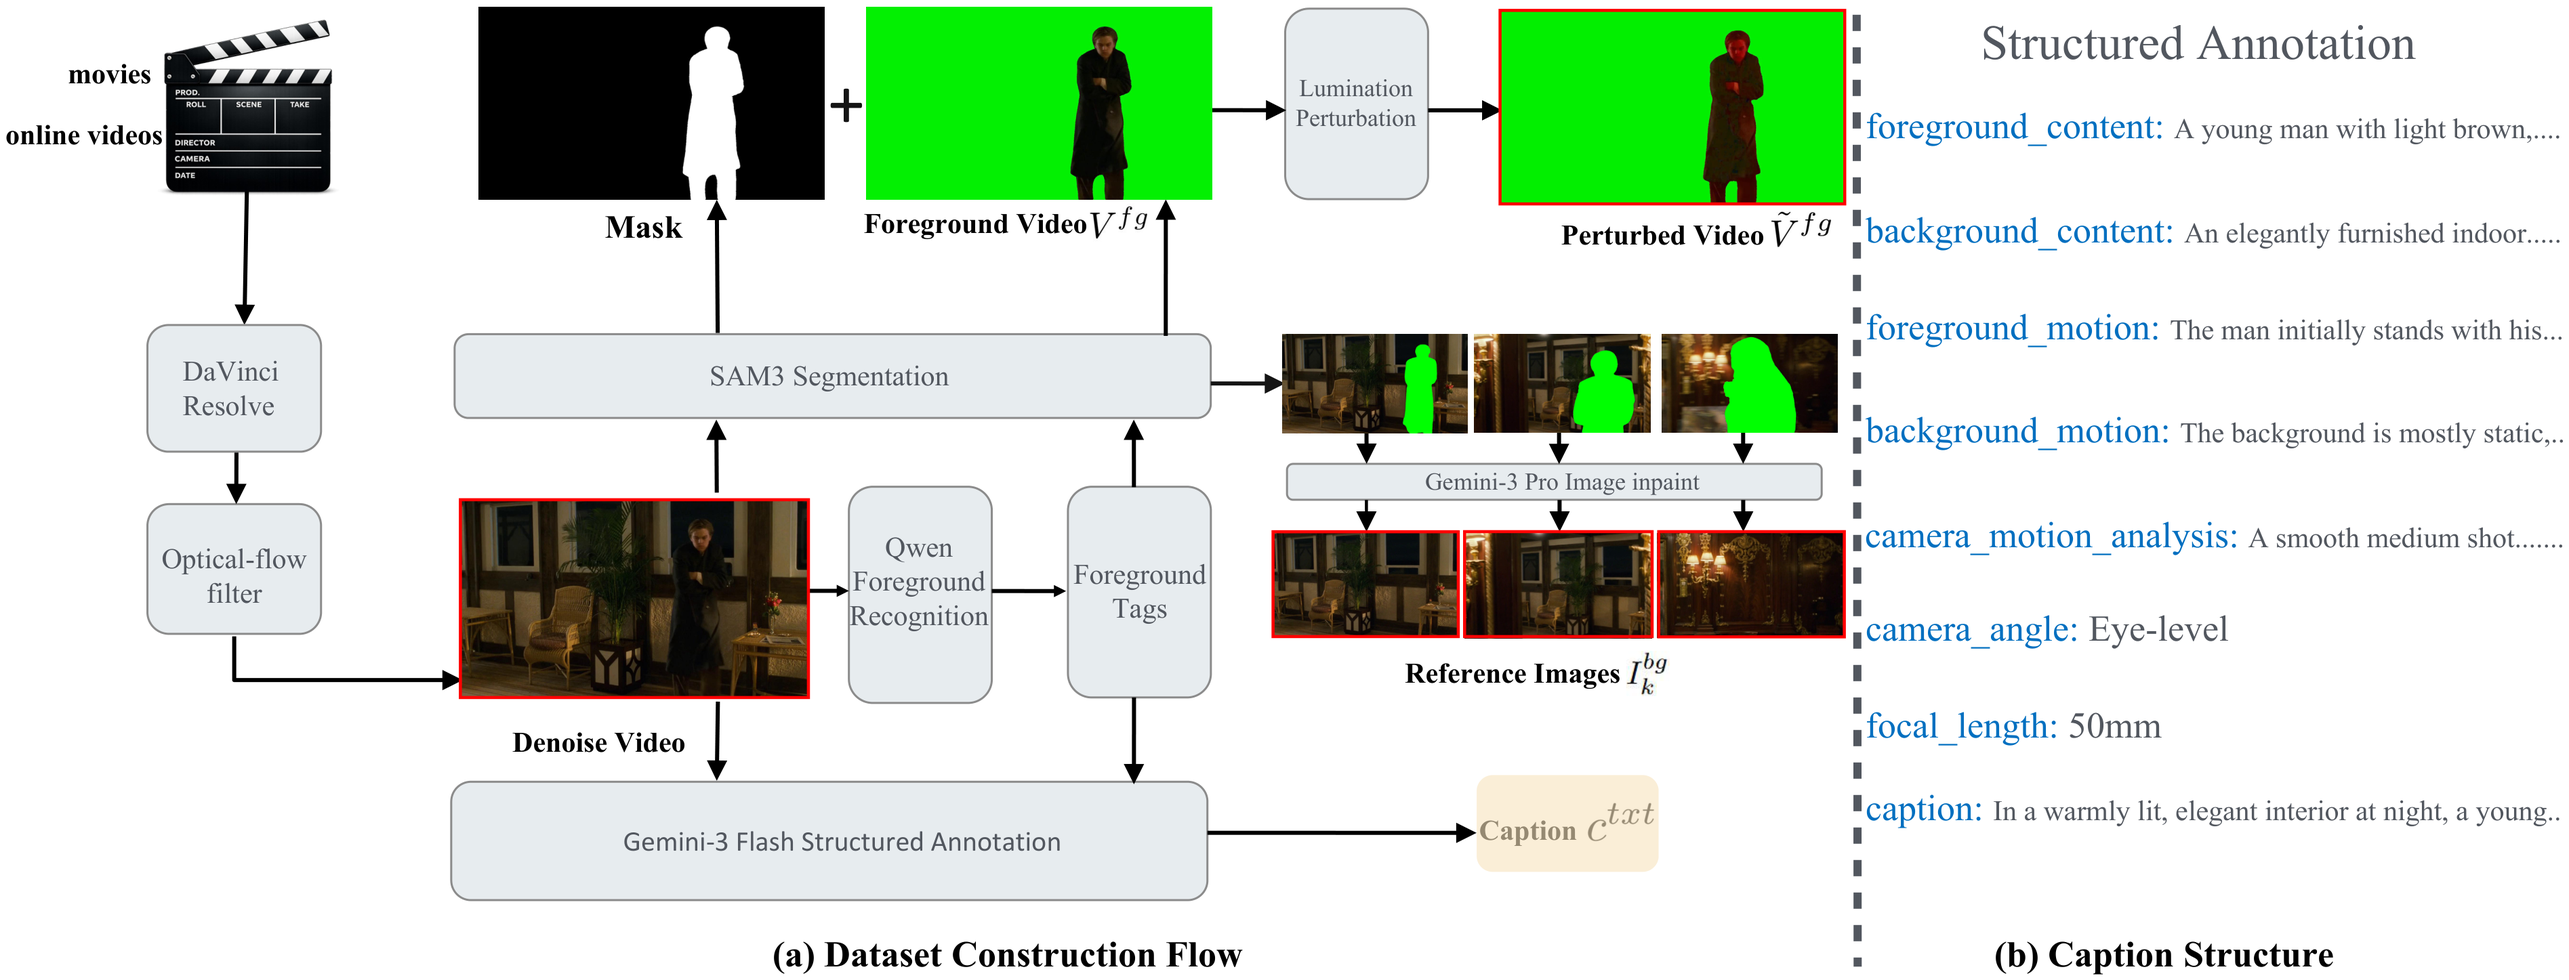
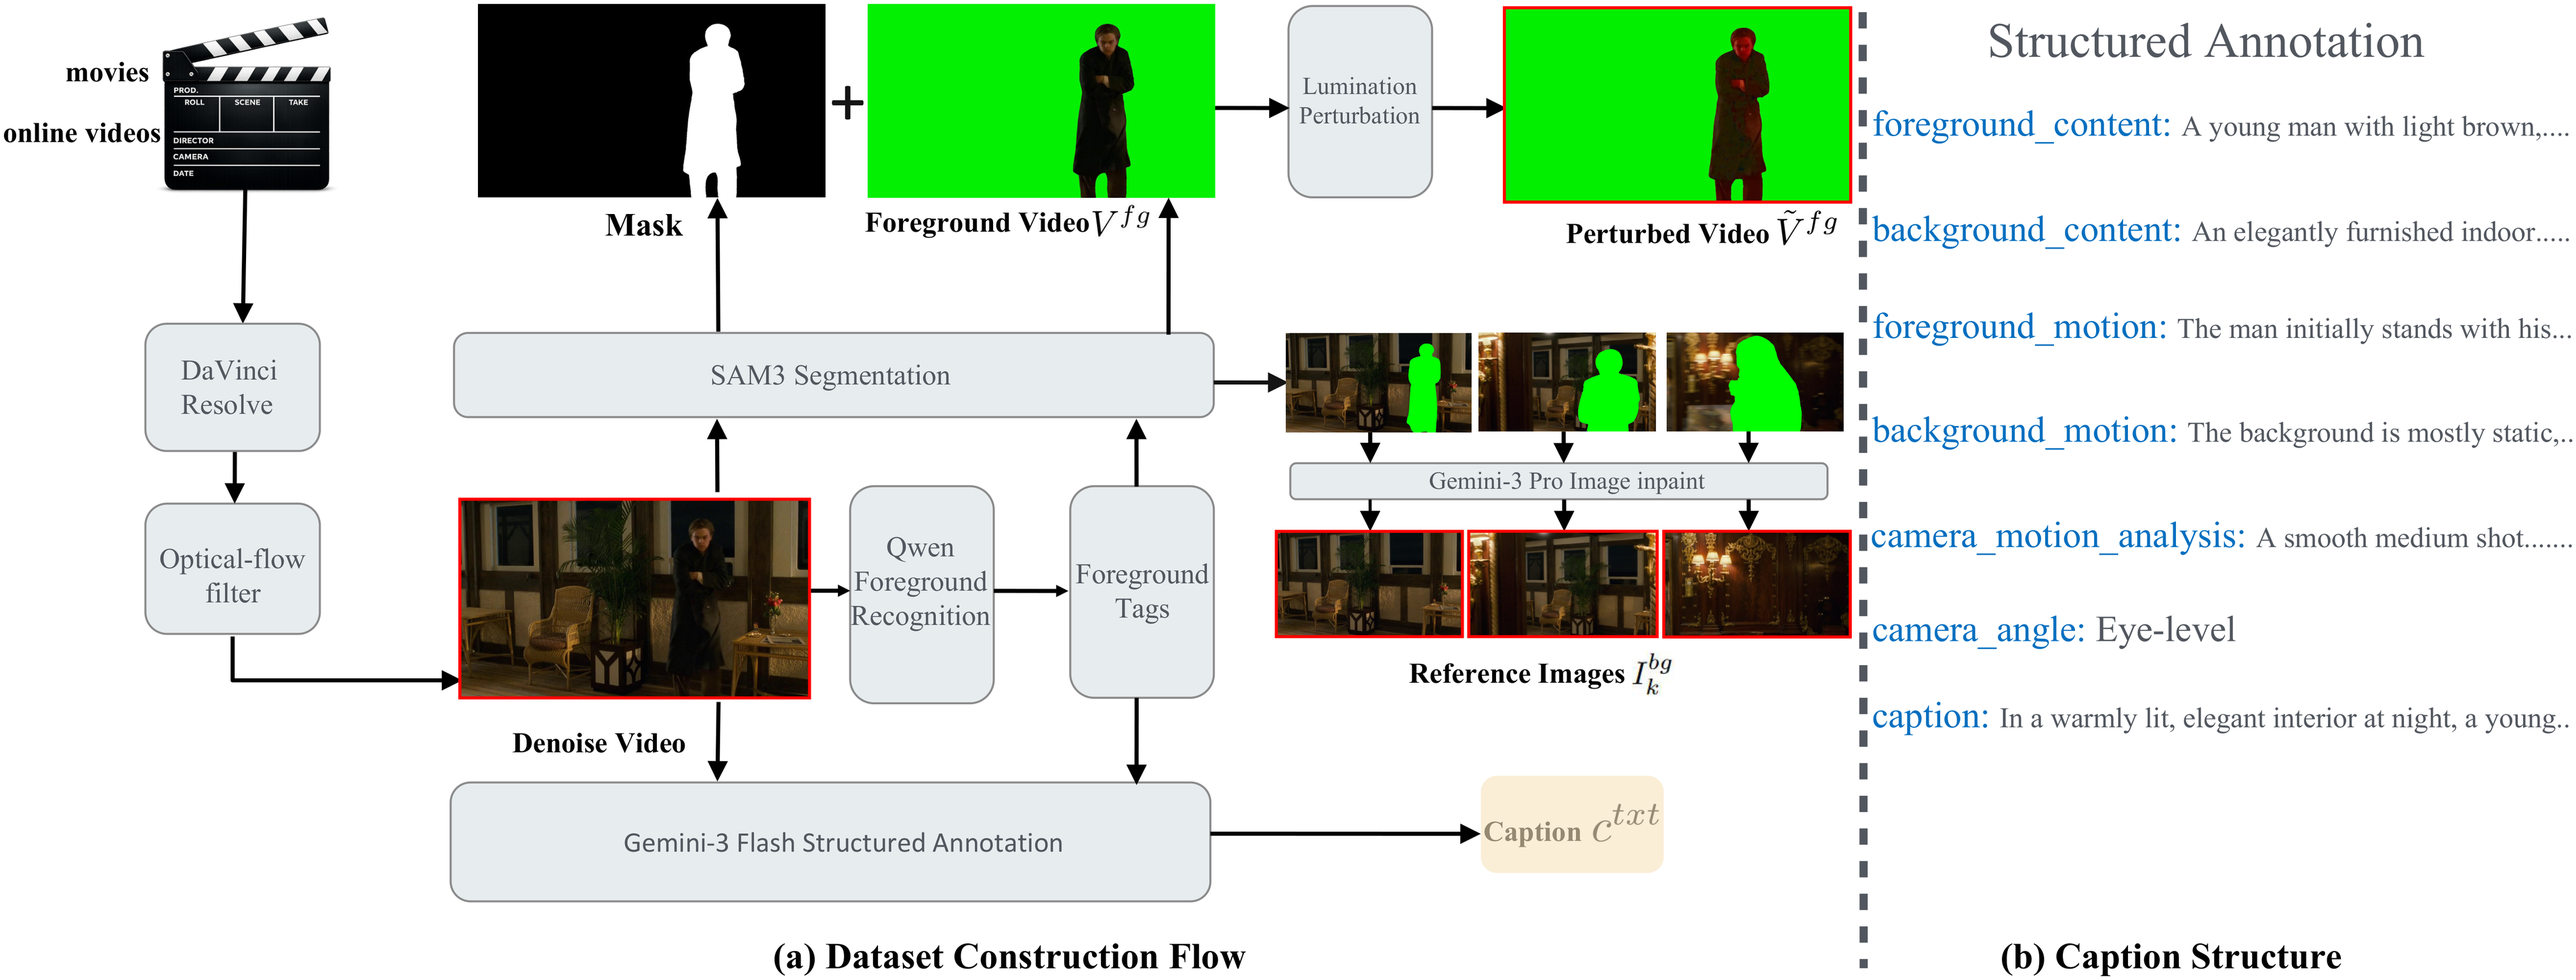
Dataset section: replace pipeline figure with Method_modified_with_synth_pipelinev2 (cropped, cache-bust v2)

diff --git a/docs/index.html b/docs/index.html
@@ -114,7 +114,7 @@
 
 <div class="content">
     <h2>Dataset: CineStudio</h2>
-    <img class="summary-img" src="static/data_pipeline_fig.png" style="width:100%" alt="Data pipeline">
+    <img class="summary-img" src="static/data_pipeline_fig.png?v=2" style="width:100%" alt="Data pipeline">
     <p style="text-align: center; font-size: 14px; color: #666; margin-top: 8px;">
         Overview of the CineStudio data construction pipeline.
     </p>
